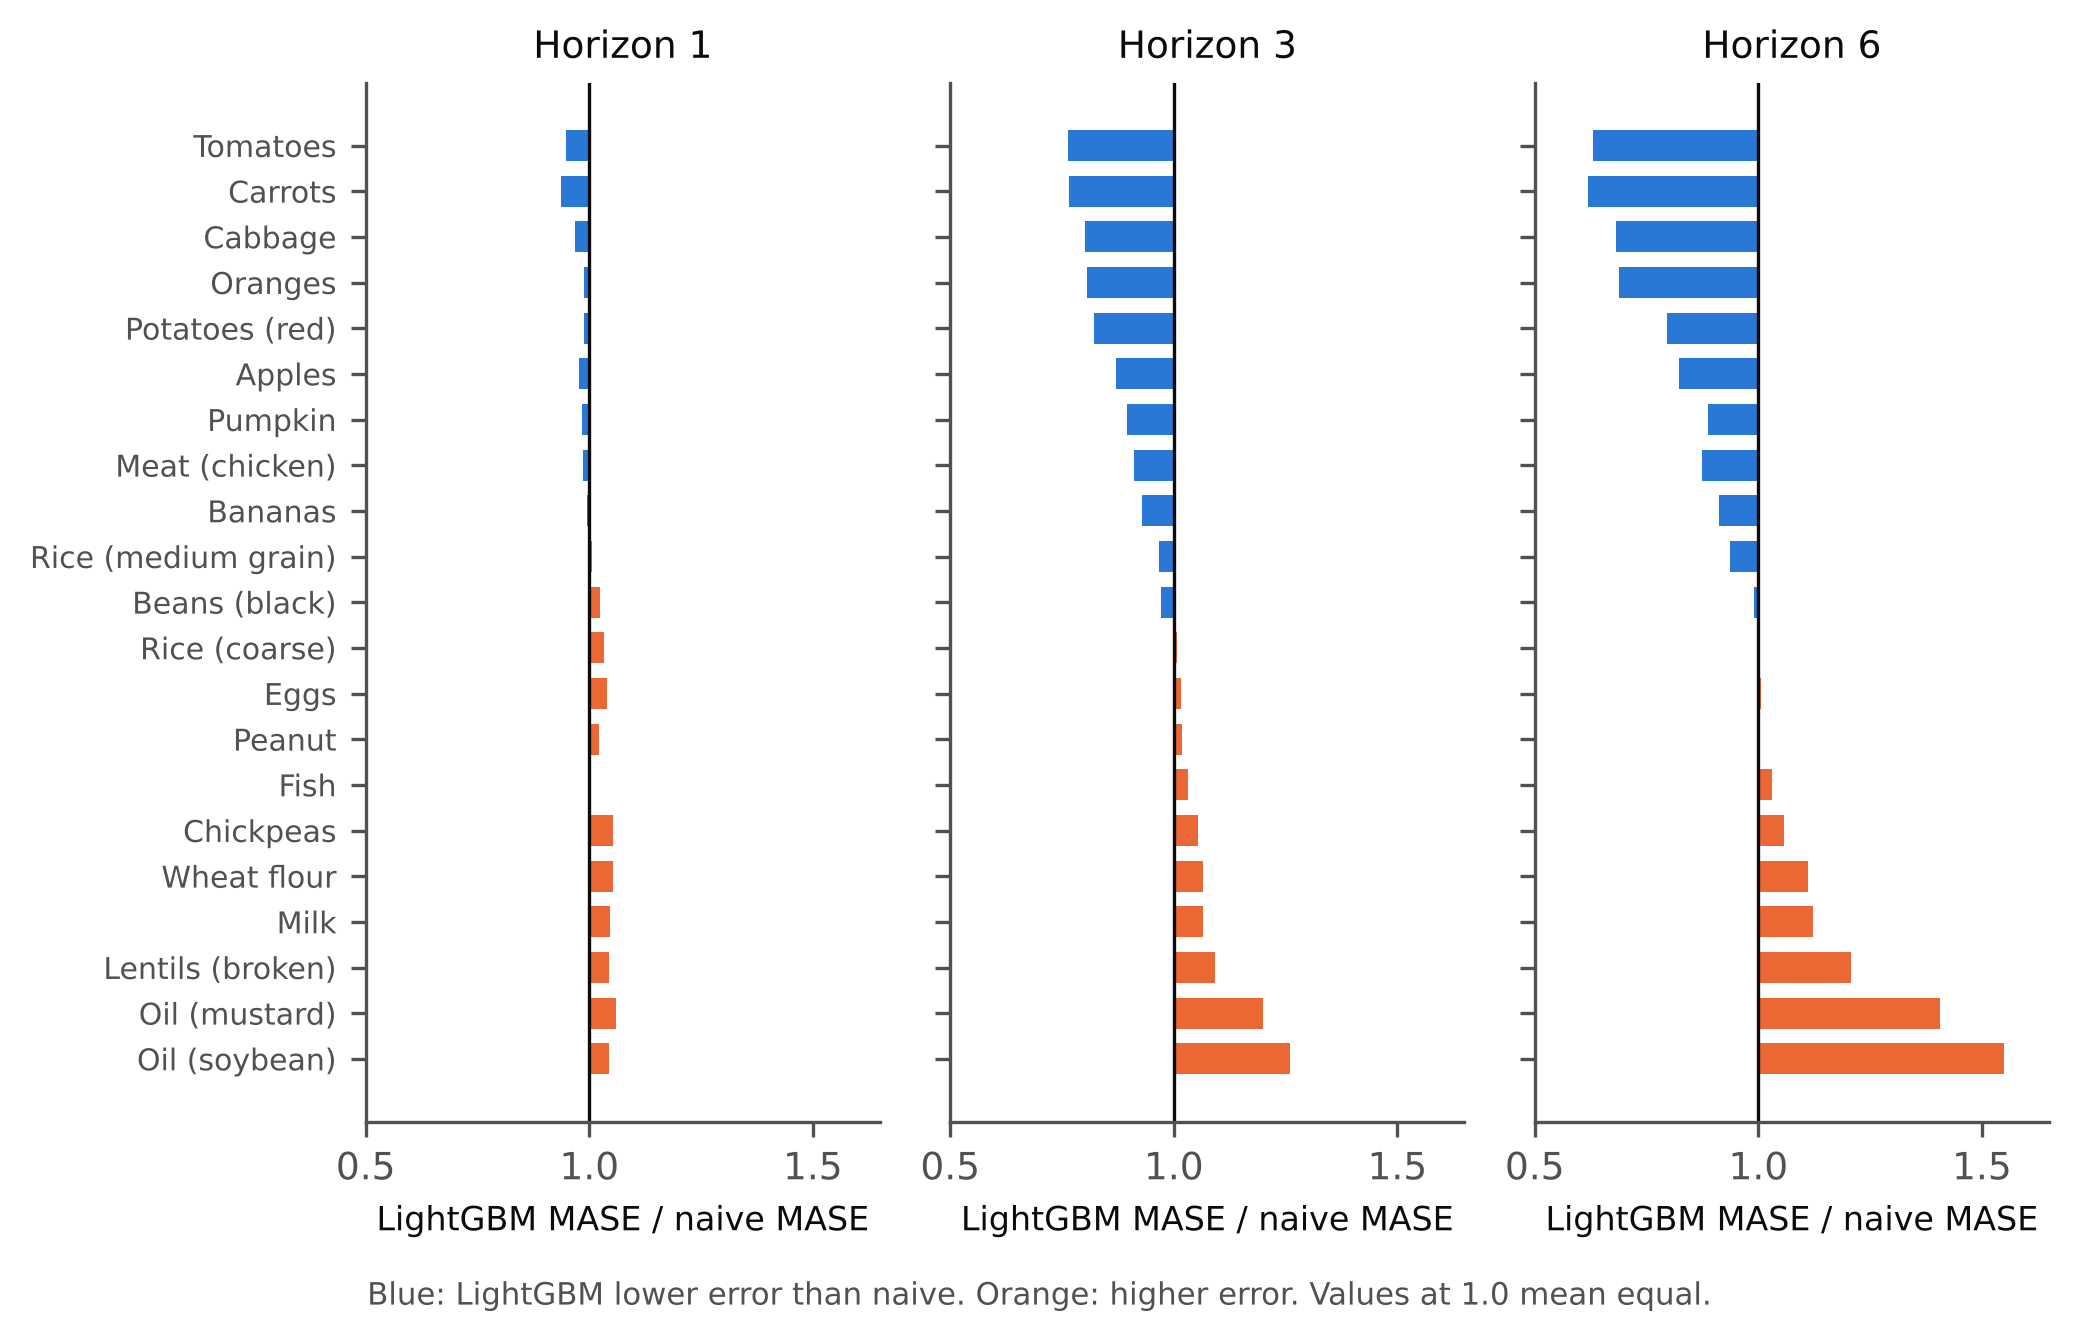
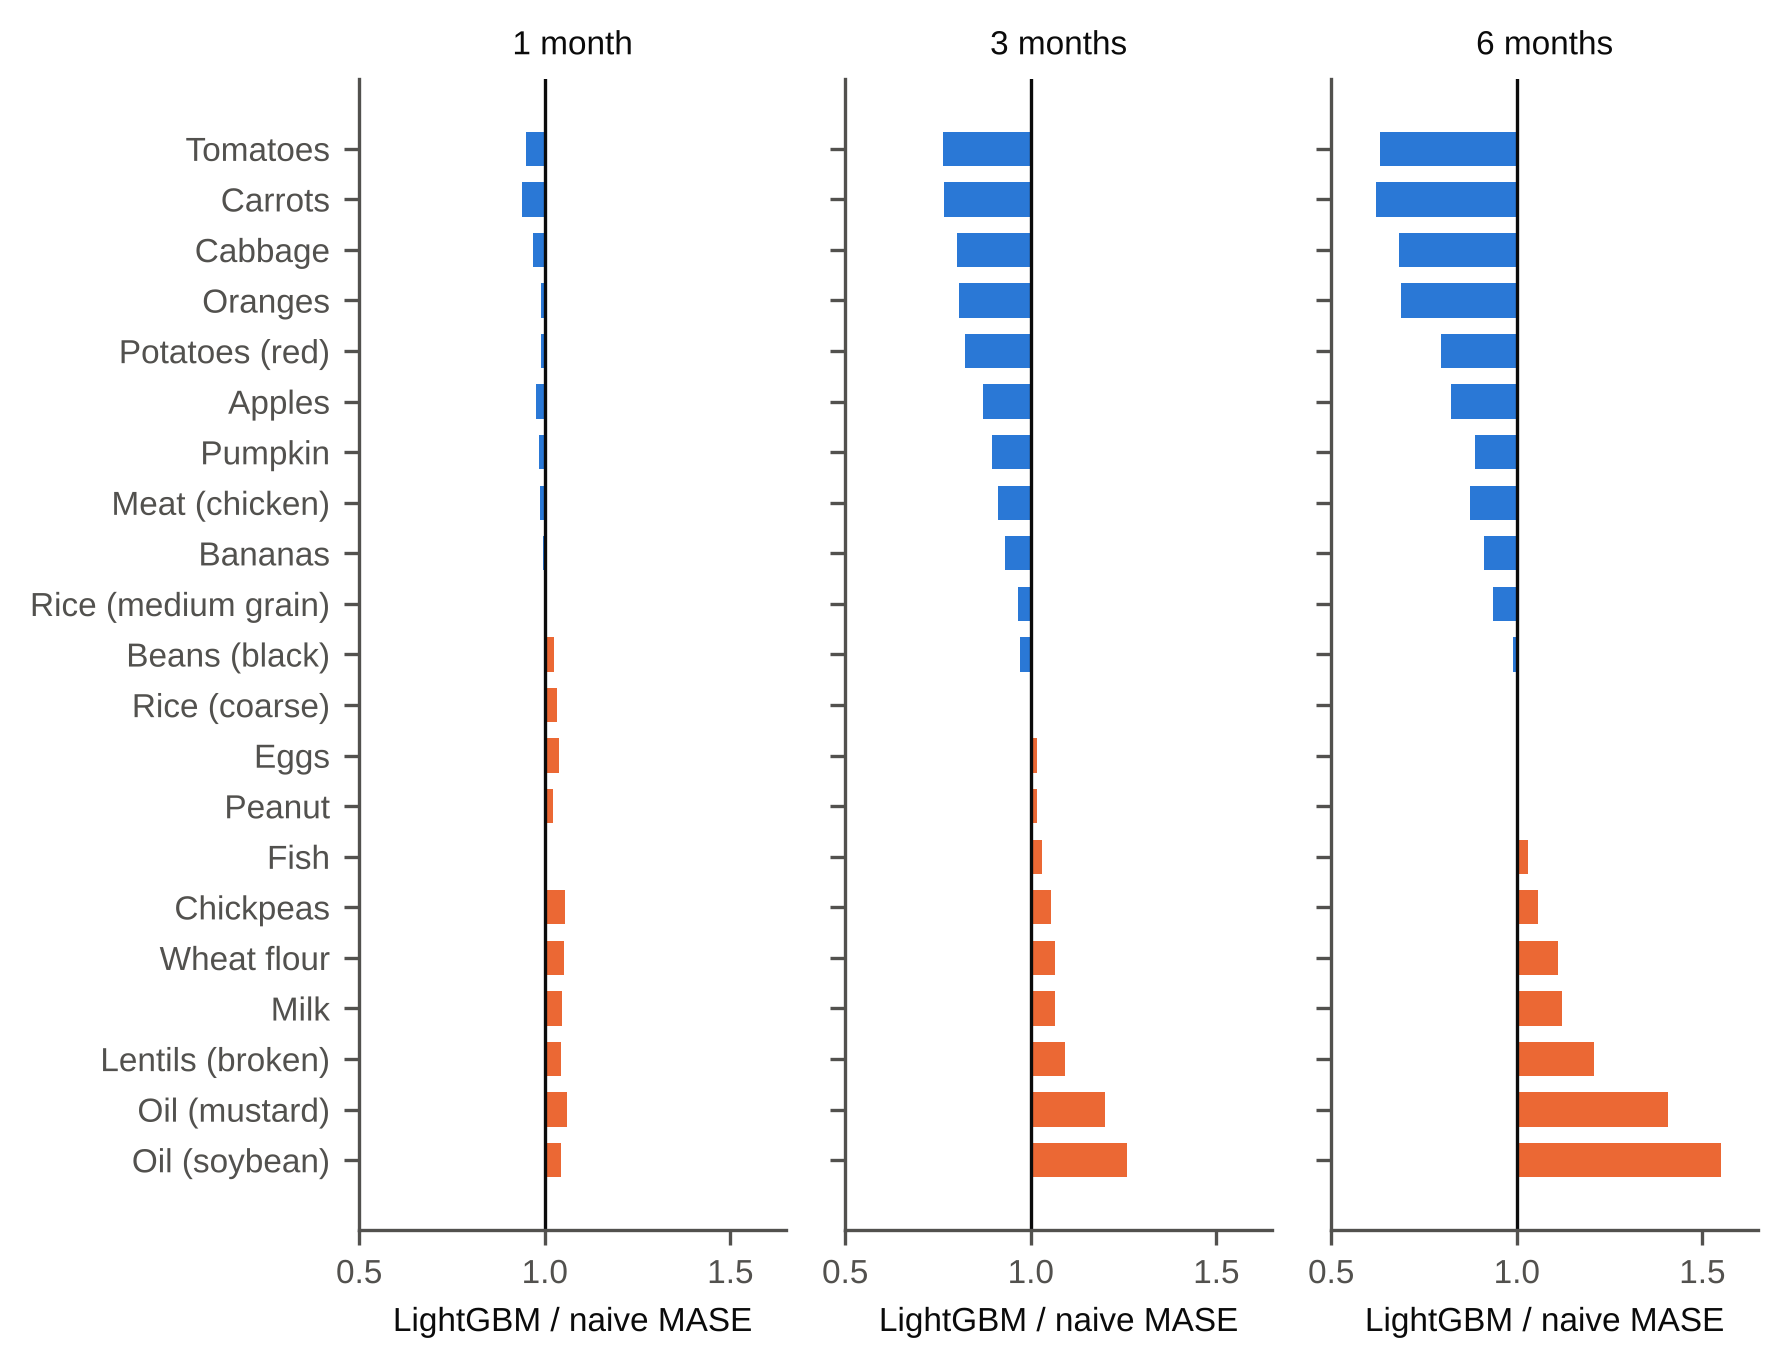
Update figures script, README DOI badge, CITATION doi

Changed region(s): [[0.0, 0.0, 0.9843, 0.9776], [0.4614, 0.5499, 0.4922, 0.7027], [0.4614, 0.3666, 0.4922, 0.5194]]

diff --git a/src/figs.py b/src/figs.py
@@ -10,88 +10,87 @@ import analyze as an, fc
 OUT = 'results/'; FIG = 'figures/'
 import os; os.makedirs(FIG, exist_ok=True)
 BLUE, ORANGE, AQUA, GREY, INK, INK2 = '#2a78d6', '#eb6834', '#1baf7a', '#9a9993', '#0b0b0b', '#52514e'
-plt.rcParams.update({'font.family': 'DejaVu Sans', 'font.size': 9, 'axes.edgecolor': INK2, 'axes.labelcolor': INK, 'xtick.color': INK2,
+plt.rcParams.update({'font.family': 'Liberation Sans', 'font.size': 8, 'axes.edgecolor': INK2, 'axes.labelcolor': INK, 'xtick.color': INK2,
                      'ytick.color': INK2, 'axes.spines.top': False, 'axes.spines.right': False, 'figure.dpi': 100, 'savefig.dpi': 300})
 NAMES = {'naive': 'Naive', 'snaive': 'Seasonal naive', 'scm': 'Seasonal change mean', 'ridge': 'Ridge', 'lgbm': 'LightGBM'}
 
 # ---------- Fig 1 workflow (conceptual)
-fig, ax = plt.subplots(figsize=(7.0, 3.4)); ax.axis('off'); ax.set_xlim(0, 100); ax.set_ylim(0, 52)
+fig, ax = plt.subplots(figsize=(6.0, 3.9)); ax.axis('off'); ax.set_xlim(0, 100); ax.set_ylim(0, 66)
 def box(x, y, w, h, t):
     ax.add_patch(FancyBboxPatch((x, y), w, h, boxstyle='round,pad=0.3,rounding_size=1.2', fc='#eef3fb', ec=INK2, lw=0.8))
-    ax.text(x + w / 2, y + h / 2, t, ha='center', va='center', fontsize=6.8, color=INK, linespacing=1.25)
+    ax.text(x + w / 2, y + h / 2, t, ha='center', va='center', fontsize=8, color=INK, linespacing=1.25)
 def arrow(x1, y1, x2, y2):
     ax.annotate('', xy=(x2, y2), xytext=(x1, y1), arrowprops=dict(arrowstyle='->', color=INK2, lw=0.9))
 bw = 21.5
 xs = [0.5, 26.5, 52.5, 78.0]
-txt = ['WFP / HDX retail\nprice file\n48,535 rows', 'Monthly panel\nApril 2019 to Sept 2026\n24 markets, 21 foods', 'Cleaning rule\n(causal; raw data are\nthe primary case)', 'Features known at\nthe forecast origin']
+txt = ['WFP / HDX\nretail price file\n48,535 rows', 'Monthly panel\nApr 2019 to\nSep 2026\n24 markets,\n21 foods', 'Cleaning rule\n(causal; raw data\nare the primary\ncase)', 'Features known\nat the forecast\norigin']
 for x, t in zip(xs, txt):
-    box(x, 36, bw, 12, t)
+    box(x, 47, bw, 17, t)
 for i in range(3):
-    arrow(xs[i] + bw + 0.6, 42, xs[i + 1] - 0.6, 42)
-ax.plot([88.7, 88.7], [35.6, 31], color=INK2, lw=0.9); ax.plot([15, 88.7], [31, 31], color=INK2, lw=0.9)
+    arrow(xs[i] + bw + 0.6, 55.5, xs[i + 1] - 0.6, 55.5)
+ax.plot([88.7, 88.7], [46.6, 41], color=INK2, lw=0.9); ax.plot([16, 88.7], [41, 41], color=INK2, lw=0.9)
 tx = [0.5, 35.5, 70.5]; tw = 29
-bt = ['Rolling-origin evaluation\nhorizons 1, 3 and 6 months\nnaive, seasonal, ETS, SARIMA,\nRidge, LightGBM',
-      'Unseen-market tests\nleave one market out,\nleave one province out\n(own history or cold start)',
+bt = ['Rolling-origin\nevaluation\nhorizons 1, 3, 6 months\nnaive, seasonal, ETS,\nSARIMA, Ridge,\nLightGBM',
+      'Unseen-market tests\nleave one market out,\nleave one province out\n(own history or\ncold start)',
       'Inference\nDiebold-Mariano test,\nblock bootstrap,\nHolm correction']
 for x, t in zip(tx, bt):
-    box(x, 12, tw, 14, t); arrow(x + tw / 2, 31, x + tw / 2, 26.6)
-ax.text(50, 4, 'Conceptual workflow. Cleaning, feature construction and model fitting use only data available at each forecast origin.', ha='center', fontsize=6.8, color=INK2)
+    box(x, 14, tw, 22, t); arrow(x + tw / 2, 41, x + tw / 2, 36.6)
+ax.text(50, 4, 'Conceptual workflow. All steps use only data available\nat each forecast origin.', ha='center', va='center', fontsize=8, color=INK2)
 fig.savefig(FIG + 'fig1_workflow.png', bbox_inches='tight'); plt.close(fig)
 
 # ---------- Fig 2 market locations (no boundary drawn)
 from adjustText import adjust_text
 mt = an.mt
-fig, ax = plt.subplots(figsize=(7.4, 4.0))
+fig, ax = plt.subplots(figsize=(6.0, 3.6))
 mk = {'low': ('o', 'Low'), 'mid': ('s', 'Medium'), 'high': ('^', 'High')}
 for g, (m, lab) in mk.items():
     d = mt[mt.iso_group == g]
     ax.scatter(d.lon, d.lat, marker=m, s=38, color=BLUE, edgecolor='white', lw=0.6, label=lab, zorder=3)
-texts = [ax.text(r.lon, r.lat, n, fontsize=6.8, color=INK) for n, r in mt.iterrows()]
+texts = [ax.text(r.lon, r.lat, n, fontsize=8, color=INK) for n, r in mt.iterrows()]
 ax.set_xlim(80.2, 88.2); ax.set_ylim(26.1, 30.5)
 ax.set_aspect(1 / np.cos(np.radians(28.5)))
 adjust_text(texts, ax=ax, expand=(1.5, 1.9), arrowprops=dict(arrowstyle='-', color=GREY, lw=0.5))
 for tx in texts:
     if tx.get_text() == 'Rajbiraj':
-        tx.set_position((86.15, 26.22)); tx.set_ha('center')
+        tx.set_position((86.62, 26.4)); tx.set_ha('right'); tx.set_va('top')
 ax.set_xlabel('Longitude (degrees east)'); ax.set_ylabel('Latitude (degrees north)')
-ax.legend(loc='upper right', fontsize=7.5, frameon=False, title='Isolation group\n(mean distance to 3\nnearest panel markets)', title_fontsize=7.5, labelspacing=0.6, borderaxespad=0.2)
+ax.legend(loc='upper right', fontsize=8, frameon=False, title='Isolation group\n(mean distance to 3\nnearest panel markets)', title_fontsize=8, labelspacing=0.6, borderaxespad=0.2)
 fig.savefig(FIG + 'fig2_markets.png', bbox_inches='tight'); plt.close(fig)
 
 # ---------- Fig 3 main results by horizon
 M = pd.read_csv(OUT + 'main_all_origins.csv')
 M = M[M.model.isin(NAMES)]
-fig, axs = plt.subplots(1, 3, figsize=(7.6, 2.9), sharey=True)
+fig, axs = plt.subplots(1, 3, figsize=(6.0, 2.7), sharey=True)
 for ax, h in zip(axs, fc.HS):
     d = M[M.h == h].set_index('model').loc[list(NAMES)]
     cols = [BLUE if m == 'lgbm' else GREY for m in d.index]
-    b = ax.bar(range(5), d.mase, color=cols, width=0.62)
+    ax.barh(range(5), d.mase, color=cols, height=0.62)
     for i, v in enumerate(d.mase):
-        ax.text(i, v + 0.03, f'{v:.2f}', ha='center', fontsize=7.4, color=INK)
-    ax.axhline(d.mase['naive'], color=INK2, lw=0.8, ls='--')
-    ax.set_xticks(range(5)); ax.set_xticklabels([NAMES[m].replace(' ', '\n') for m in d.index], fontsize=5.8)
-    ax.set_title(f'Horizon {h} month' + ('s' if h > 1 else ''), fontsize=9, color=INK)
-axs[0].set_ylabel('Mean MASE (lower is better)')
-fig.text(0.5, -0.02, 'Dashed line: naive forecast. Scores use all monthly origins from March 2022; see Table 3.', ha='center', fontsize=7.4, color=INK2)
+        ax.text(v + 0.03, i, f'{v:.2f}', va='center', fontsize=8, color=INK)
+    ax.axvline(d.mase['naive'], color=INK2, lw=0.8, ls='--')
+    ax.set_xlim(0, 2.45); ax.set_xticks([0, 1.0, 2.0])
+    ax.set_title(f'{h} month' + ('s' if h > 1 else ''), fontsize=8, color=INK)
+    ax.set_xlabel('Mean MASE', fontsize=8)
+axs[0].set_yticks(range(5)); axs[0].set_yticklabels([NAMES[m] for m in list(NAMES)], fontsize=8); axs[0].invert_yaxis()
 fig.tight_layout(); fig.savefig(FIG + 'fig3_main.png', bbox_inches='tight'); plt.close(fig)
 
 # ---------- Fig 4 commodity heterogeneity
 B = pd.read_csv(OUT + 'breakdown_A.csv'); B = B[B.dim == 'commodity']
-fig, axs = plt.subplots(1, 3, figsize=(7.0, 4.3), sharey=True)
+fig, axs = plt.subplots(1, 3, figsize=(6.0, 4.6), sharey=True)
 order = B[B.h == 3].sort_values('ratio_lgbm_naive').group.tolist()
 for ax, h in zip(axs, fc.HS):
     d = B[B.h == h].set_index('group').loc[order]
     cols = [BLUE if v < 1 else ORANGE for v in d.ratio_lgbm_naive]
     ax.barh(range(len(d)), d.ratio_lgbm_naive - 1, left=1, color=cols, height=0.68)
     ax.axvline(1, color=INK, lw=0.8)
-    ax.set_title(f'Horizon {h}', fontsize=9, color=INK); ax.set_xlim(0.5, 1.65)
-    ax.set_xlabel('LightGBM MASE / naive MASE', fontsize=8)
-axs[0].set_yticks(range(len(order))); axs[0].set_yticklabels(order, fontsize=7.2); axs[0].invert_yaxis()
-fig.text(0.5, -0.02, 'Blue: LightGBM lower error than naive. Orange: higher error. Values at 1.0 mean equal.', ha='center', fontsize=7.4, color=INK2)
+    ax.set_title(f'{h} month' + ('s' if h > 1 else ''), fontsize=8, color=INK); ax.set_xlim(0.5, 1.65)
+    ax.set_xlabel('LightGBM / naive MASE', fontsize=8)
+axs[0].set_yticks(range(len(order))); axs[0].set_yticklabels(order, fontsize=8); axs[0].invert_yaxis()
 fig.tight_layout(); fig.savefig(FIG + 'fig4_commodity.png', bbox_inches='tight'); plt.close(fig)
 
 # ---------- Fig 5 unseen markets
 U = pd.read_csv(OUT + 'unseen_summary.csv')
-fig, axs = plt.subplots(1, 2, figsize=(7.0, 3.2))
+fig, axs = plt.subplots(1, 2, figsize=(6.0, 3.6))
 ax = axs[0]
 d = U[(U['mode'] == 'LOMO') & (U.variant == 'A')]
 ax.plot(d.h, d.ratio_seen_naive, marker='D', color=GREY, lw=1.6, ms=5, mec='white', ls='--', label='Market in training')
@@ -99,22 +98,22 @@ ax.plot(d.h, d.ratio_unseen_naive, marker='o', color=BLUE, lw=1.6, ms=6, mec='wh
 d2 = U[(U['mode'] == 'LOPO') & (U.variant == 'A')]
 ax.plot(d2.h, d2.ratio_unseen_naive, marker='s', color=ORANGE, lw=1.6, ms=5.5, mec='white', label='Leave one province out')
 ax.axhline(1, color=INK, lw=0.8); ax.set_xticks([1, 3, 6])
-ax.set_xlabel('Forecast horizon (months)'); ax.set_ylabel('LightGBM MASE / naive MASE'); ax.set_title('(a) Own recent history available', fontsize=8.6, loc='left')
-ax.legend(fontsize=7, frameon=False, loc='upper right')
+ax.set_xlabel('Forecast horizon (months)'); ax.set_ylabel('LightGBM MASE / naive MASE'); ax.set_title('(a) Own history available', fontsize=8, loc='left')
+ax.legend(fontsize=8, frameon=False, loc='upper right')
 ax = axs[1]
 d = U[(U['mode'] == 'LOMO') & (U.variant == 'B')].set_index('h')
 series = [('mae_B0', 'Mean of other markets', GREY, 'o'), ('mae_B1', 'Nearest 3 markets', AQUA, 's'), ('mae_lgbmB', 'LightGBM, no own history', BLUE, 'D'), ('mae_naive_own', 'Naive with own history', ORANGE, '^')]
 for k, lab, col, m in series:
     ax.plot(d.index, d[k], marker=m, color=col, lw=1.6, ms=5.5, mec='white', label=lab)
 ax.set_xticks([1, 3, 6]); ax.set_xlabel('Forecast horizon (months)'); ax.set_ylabel('Mean absolute error (log points)')
-ax.set_title('(b) No own history (leave one market out)', fontsize=8.6, loc='left')
-ax.legend(fontsize=7, frameon=False, loc='upper left')
+ax.set_title('(b) No own history (market left out)', fontsize=8, loc='left')
+ax.legend(fontsize=8, frameon=False, loc='upper left')
 ax.set_ylim(0.07, 0.27)
 fig.tight_layout(); fig.savefig(FIG + 'fig5_unseen.png', bbox_inches='tight'); plt.close(fig)
 
 # ---------- Fig 6 stability over origins (h = 3)
 zm = np.load(OUT + 'fc_A_naive_snaive_scm_ridge_lgbm.npz')
-fig, axs = plt.subplots(1, 3, figsize=(7.0, 2.6), sharey=True)
+fig, axs = plt.subplots(1, 3, figsize=(6.0, 2.6), sharey=True)
 dates = pd.period_range('2019-04', '2026-09', freq='M')
 for ax, h in zip(axs, fc.HS):
     o = list(zm[f'origins|{h}']); y, sc, ok = an.triples(h, o)
@@ -122,10 +121,9 @@ for ax, h in zip(axs, fc.HS):
     r = om['lgbm'] / om['naive']
     x = [dates[t].to_timestamp() for t in o]
     ax.plot(x, r, color=BLUE, lw=1.4); ax.axhline(1, color=INK, lw=0.8)
-    ax.set_title(f'Horizon {h} month' + ('s' if h > 1 else ''), fontsize=9, color=INK)
+    ax.set_title(f'{h} month' + ('s' if h > 1 else ''), fontsize=8, color=INK)
     import matplotlib.dates as mdates
-    ax.xaxis.set_major_locator(mdates.YearLocator()); ax.xaxis.set_major_formatter(mdates.DateFormatter('%Y')); ax.tick_params(axis='x', labelsize=7)
+    ax.xaxis.set_major_locator(mdates.YearLocator()); ax.xaxis.set_major_formatter(mdates.DateFormatter('%Y')); ax.tick_params(axis='x', labelsize=8)
 axs[0].set_ylabel('LightGBM MASE / naive MASE')
-fig.text(0.5, -0.04, 'Ratio of origin-level mean MASE. Gaps: origins whose own month or target month has no price data.', ha='center', fontsize=7.4, color=INK2)
 fig.tight_layout(); fig.savefig(FIG + 'fig6_stability.png', bbox_inches='tight'); plt.close(fig)
 print('figures written')

diff --git a/README.md b/README.md
@@ -1,5 +1,7 @@
 # Forecasting retail food prices in Nepal with machine learning
 
+[![DOI](https://zenodo.org/badge/1465610111.svg)](https://doi.org/10.5281/zenodo.24401263)
+
 Code, frozen analysis plan, deviation log, forecast outputs, result tables and figures for the manuscript
 "Forecasting Retail Food Prices in Nepal with Machine Learning: A Rolling-Origin and Unseen-Market Evaluation"
 (Bibek Maharjan). Manuscript status: in preparation. [![DOI](https://zenodo.org/badge/1465610111.svg)](https://doi.org/10.5281/zenodo.24401263)
@@ -77,3 +79,7 @@ already in `results/`, and the output tables are identical to the committed ones
 ## Licence
 
 Code, results and figures: Apache License 2.0 (`LICENSE`). Data: WFP, CC BY-IGO, reproduced unchanged with attribution (`NOTICE`).
+
+## Fonts
+
+Figures use the Liberation Sans font (an Arial-compatible font). If it is not installed, matplotlib falls back to its default font and the figures will look slightly different.
